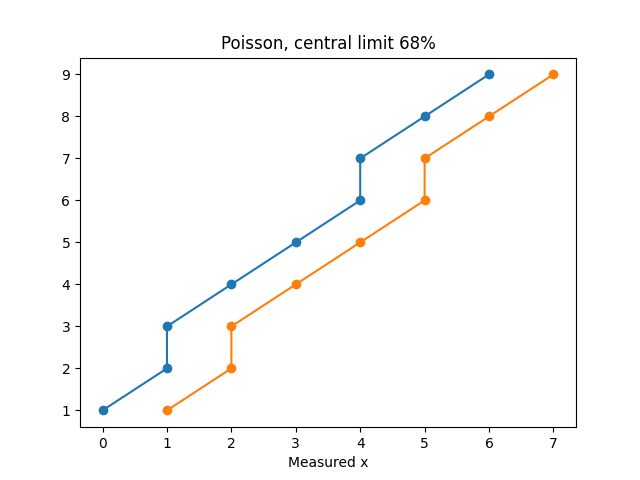
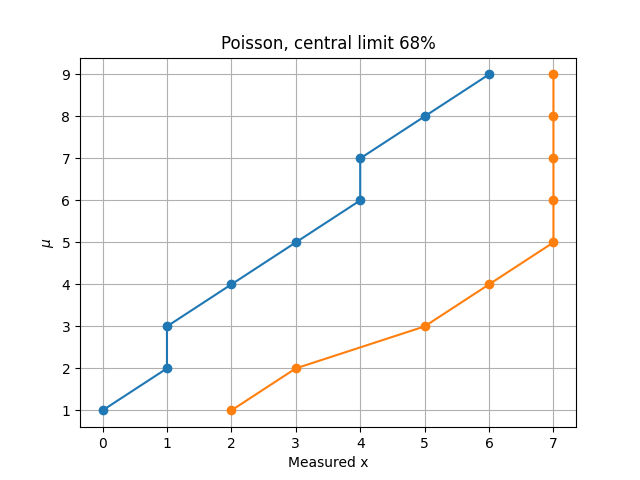
App problem 1

diff --git a/APP/Ass2/Problem_1.py b/APP/Ass2/Problem_1.py
@@ -3,6 +3,10 @@
 
 import numpy as np
 import matplotlib.pyplot as plt
+import scipy.integrate as integrate
+
+ALPHA_UPPER = 0.9
+ALPHA_CENTRAL = 0.68
 
 
 def factorial(n):
@@ -22,6 +26,16 @@ def poisson_function(x_array, mu):
     for n in x_array:
         func_values.append(poisson_distribution(n, mu))
     return np.array(func_values)
+
+
+def gaussian_function(x_array, mu):
+    return (1/(np.sqrt(2*np.pi))) * np.exp(-(x_array-mu)**2/2)
+
+
+def integral_gaussian(x_0, x_u, mu):
+    print(x_0, x_u)
+    Integral = integrate.quad(gaussian_function, x_0, x_u, args=mu)
+    return Integral[0]
 
 
 def summation(array):
@@ -57,66 +71,134 @@ def central_upper_limit(cl, alpha):
         return False
 
 
+def poisson():
+    x = np.arange(0, 10, 1)
+    mu = 0
+    # Upper Limit
+    x_vs = []
+    mu_vs = []
+    while mu < 10:
+        pdf = poisson_function(x, mu)
+        for q, P in enumerate(pdf):
+            cl = summation(pdf[:q+1])
+            print(x[q], P, cl)
+            if upper_limit(cl, ALPHA_UPPER) is True:
+                print('we got it')
+                x_vs.append(x[q])
+                mu_vs.append(mu)
+                break
+        mu += 1
 
-x = np.arange(0, 10, 1)
+    plt.figure()
+    plt.plot(x_vs, mu_vs, 'o-')
+    plt.title('Poisson, Upper limit 90%')
+    plt.xlabel('Measured x')
+    plt.ylabel('$\mu$')
+    plt.grid()
+    # plt.show(block=False)
+    plt.savefig('poisson_upper.png')
 
-alpha_upper = 0.9
-mu = 0
+    # Central Interval
+    print('Central Interval')
+    x_1 = []
+    x_2 = []
+    mu_vs_cl = []
+    mu = 0
+    while mu < 10:
+        pdf = poisson_function(x, mu)
+        for q, P in enumerate(pdf):
+            cl = summation(pdf[:q+1])
+            print(x[q], P, cl)
+            if central_lower_limit(cl, ALPHA_CENTRAL) is True:
+                print('we got lower it')
 
-# Upper Limit
-x_vs = []
-mu_vs = []
-while mu < 10:
-    pdf = poisson_function(x, mu)
-    for q, P in enumerate(pdf):
-        cl = summation(pdf[:q+1])
-        print(x[q], P, cl)
-        if upper_limit(cl, alpha_upper) is True:
-            print('we got it')
-            x_vs.append(x[q])
-            mu_vs.append(mu)
-            break
-    mu += 1
+                for r, l in enumerate(x[q+1:]):
+                    print(r, q, r+q+1)
+                    cl_u = summation(pdf[-(r+1):-1])
+                    if central_upper_limit(cl_u, ALPHA_CENTRAL) is True:
+                        x_2.append(x[-r-1])
+                        x_1.append(x[q])
+                        mu_vs_cl.append(mu)
+                        break
+                break
+        mu += 1
+    print(x_1)
+    print(x_2)
+    plt.figure()
+    plt.plot(x_1, mu_vs_cl, 'o-')
+    plt.plot(x_2, mu_vs_cl, 'o-')
+    plt.title('Poisson, central limit 68%')
+    plt.xlabel('Measured x')
+    plt.ylabel('$\mu$')
+    plt.grid()
+    # plt.show(block=False)
+    plt.savefig('poisson_central.png')
 
-plt.figure()
-plt.plot(x_vs, mu_vs, 'o-')
-plt.title('Poisson, Upper limit 90%')
-plt.xlabel('Measured x')
-# plt.show(block=False)
-plt.savefig('poisson_upper.png')
 
-# Central Interval
-print('Central Interval')
-alpha_central = 0.68
-x_1 = []
-x_2 = []
-mu_vs_cl = []
-mu = 0
-while mu < 10:
-    pdf = poisson_function(x, mu)
-    for q, P in enumerate(pdf):
-        cl = summation(pdf[:q+1])
-        print(x[q], P, cl)
-        if central_lower_limit(cl, alpha_central) is True:
-            print('we got lower it')
+def gaussian():
+    x = np.arange(0.1, 10, 0.1)
+    mu = 0
+    # Upper Limit
+    x_vs = []
+    mu_vs = []
+    while mu < 10:
+        pdf = gaussian_function(x, mu)
+        for q, P in enumerate(pdf):
+            cl = integral_gaussian(0, x[q], mu)
+            print(x[q], P, cl)
+            if upper_limit(cl, ALPHA_UPPER) is True:
+                print('we got it')
+                x_vs.append(x[q])
+                mu_vs.append(mu)
+                break
+        mu += 1
 
-            for r, l in enumerate(x[q+1:]):
-                print(r, q, r+q+1)
-                r += q+1
-                cl_u = summation(pdf[r:])
-                if central_upper_limit(cl_u, alpha_central) is True:
-                    x_2.append(x[r])
-                    x_1.append(x[q])
-                    mu_vs_cl.append(mu)
-                    break
-            break
-    mu += 1
-print(x_1)
-print(x_2)
-plt.figure()
-plt.plot(x_1, mu_vs_cl, 'o-')
-plt.plot(x_2, mu_vs_cl, 'o-')
-plt.title('Poisson, central limit 68%')
-plt.xlabel('Measured x')
-# plt.show(block=False)
-plt.savefig('poisson_central.png')
+    plt.figure()
+    plt.plot(x_vs, mu_vs, 'o-')
+    plt.title('Gaussian, Upper limit 90%')
+    plt.xlabel('Measured x')
+    plt.ylabel('$\mu$')
+    plt.grid()
+    # plt.show(block=False)
+    plt.savefig('gaussian_upper.png')
+
+    # Central Interval
+    print('Central Interval')
+    x_1 = []
+    x_2 = []
+    mu_vs_cl = []
+    mu = 0
+    while mu < 10:
+        pdf = gaussian_function(x, mu)
+        for q, P in enumerate(pdf):
+            cl = integral_gaussian(0, x[q], mu)
+            print(x[q], P, cl)
+            if central_lower_limit(cl, ALPHA_CENTRAL) is True:
+                print('we got lower it')
+
+                for r, l in enumerate(x[q+1:]):
+                    print(r, q)
+                    cl_u = integral_gaussian(x[-r-1], x[-1], mu)
+                    if central_upper_limit(cl_u, ALPHA_CENTRAL) is True:
+                        x_2.append(x[-r-1])
+                        x_1.append(x[q])
+                        mu_vs_cl.append(mu)
+                        break
+                break
+        mu += 1
+    print(x_1)
+    print(x_2)
+    plt.figure()
+    plt.plot(x_1, mu_vs_cl, 'o-')
+    plt.plot(x_2, mu_vs_cl, 'o-')
+    plt.title('Gaussian, central limit 68%')
+    plt.xlabel('Measured x')
+    plt.ylabel('$\mu$')
+    plt.grid()
+    # plt.show(block=False)
+    plt.savefig('gaussian_central.png')
+
+
+gaussian()
+poisson()
+# Code ends here
